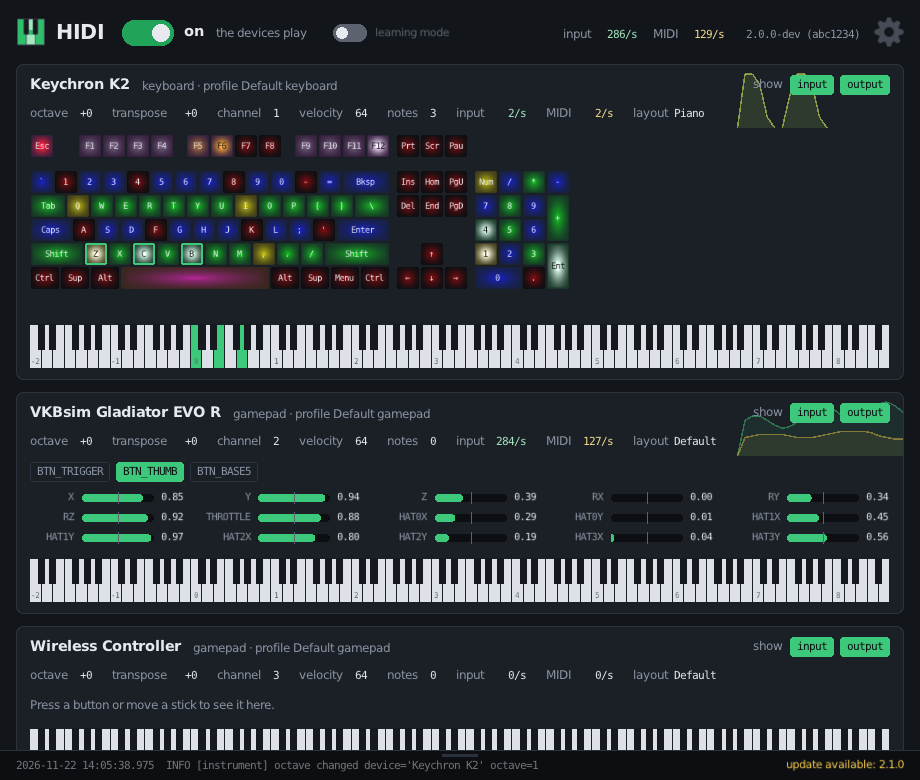
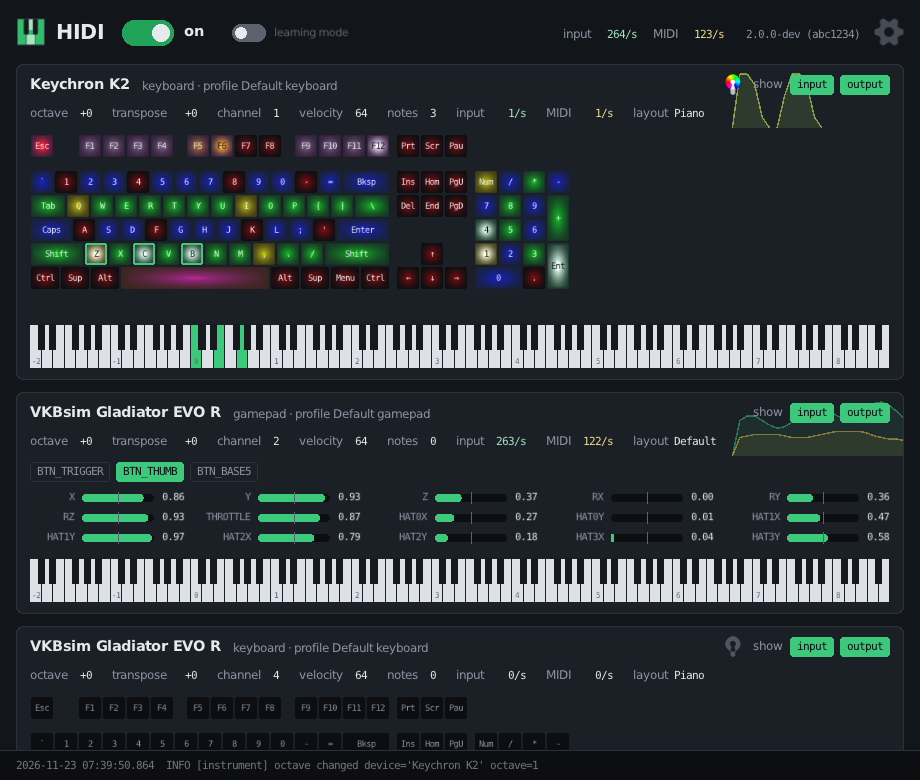
Docs: the seventh round
README: the sign of the lights on a keyboard's card and what a click on
it does; the row of levels below the status bar, and that what is played
is logged at debug level; the OpenRGB server field and the size of the
interface in the settings.

Configuration reference: window.scale, an empty lights.address, how the
shown lists name an entry, and what became of window.log_height.

Roadmap: a table of what was asked for in this round and what was done,
and two more things to try on Windows.

Claude-Session: https://claude.ai/code/session_01BSpi87DutHCzCjSX2Ru5Rd

diff --git a/docs/roadmap.md b/docs/roadmap.md
@@ -51,7 +51,7 @@ completes or changes an item.
 | OpenRGB | Supported through a server the user runs. HIDI does not bundle one. |
 | Go version | The current release; 1.27 at the time of writing. |
 
-## Where things stand (22 November 2026)
+## Where things stand (23 November 2026)
 
 `dev` holds everything up to the review of the whole code (pull requests
 50 and 51). One pull request is open on top of it:
@@ -109,6 +109,10 @@ To be tried on Windows, none of which has run there:
   that it stops moving the mouse.
 - The window at 120 Hz: is motion smooth now.
 - Learning mode, and the middle click on the icon.
+- The size of the interface on a display with scaling of its own, and
+  that the pointer and what it points at still agree.
+- Typing the OpenRGB address in the settings while the keyboard is not
+  HIDI's alone.
 
 To be tried with a keyboard OpenRGB lights, which was not at hand: that a
 released key goes dark at once, how fast the lights follow while playing,
@@ -383,12 +387,30 @@ of the reports and are not read on Windows.
 | The toggle key kept from the system (Caps Lock) | `input.toggle_exclusive`; a switch on the sheet. |
 | The hand cursor showed for one frame | The cursor is set once a frame. On Windows raylib gives the arrow back on every mouse move, so there the wish is repeated after every look at the pointer. Not seen on Windows yet. |
 | The icon | `internal/assets/icon` fills the shapes of the maintainer's drawing at any size. On: the H of the two outer keys and the bar green, the rest of the middle key a lighter green. Learning: yellow, alternating with green every half second. Off: grey without the letter. In the tray, in the header of the window, and in `hidi.exe` through go-winres at build time. |
-| A nicer gear | A disc, eight teeth with sloping sides, cut to a circle, a hole in the middle; drawn once as a picture and turned. |
+| A nicer gear | A disc, teeth with sloping sides (eight at first, six since the seventh round), cut to a circle, a hole in the middle; drawn once as a picture and turned. |
 | A check for updates | Opt-in (`window.check_updates`). The window asks GitHub's API for the newest release, once when it opens and once a day; the lower right corner says "up to date" in grey or "update available" in yellow, and a click opens the release. |
 | The Microsoft DLL in the zip | The release script takes it from Microsoft's package by address and checksum and puts it, the `.pri` and Microsoft's licence into the Windows archives. Address and checksum are still to be filled in. |
 | No console window | A release is linked with `-H windowsgui`; started from a command line HIDI joins that console; `--console` opens one. |
 
 Not done on purpose: the raylib change stays out of the release.
+
+### Seventh round (23 November 2026): what was asked for, and what was done
+
+| Asked for | Done |
+|---|---|
+| The icon of the program neutral | All white keys white; the green ones are for the tray and the header, which show a state. |
+| The OpenRGB logo as a vector drawing with a mesh gradient | `internal/assets/icon/openrgb.svg`: the wheel is one row of six patches around the middle, a corner each for red, yellow, green, cyan, blue and magenta; keyhole and base are plain shapes. Written by hand from measurements of the picture; **not opened in Inkscape**, which was not at hand, so the mesh is unverified. The window does not read the file: `icon.OpenRGB` draws the same shapes. |
+| The logo beside "show" on every keyboard | Colour where HIDI drives the lights, grey where not. A click on a grey one asks HIDI to show what the lights would show (`simulate` on the control socket, `Manager.SetSimulated`): the sign turns yellow and the drawn keyboard glows as a lit one does. It also brings the drawn keyboard into view. Lasts while HIDI runs. |
+| A gear of six teeth | Six. |
+| Size of the interface | `window.scale`, 85 to 200 % on the sheet. Everything is laid out as before and drawn through a lens; the fonts are made anew for the size, so text stays sharp. Where the header or a card is too narrow, the least needed is left out and names are cut. The window keeps its size. |
+| The OpenRGB address editable | A field on the sheet, empty by default with the usual address shown faintly, editable while the lights are off. An address needs a host and a port from 1 to 65535. |
+| No height of the log | The setting is gone; a file that has it is still read. The window opens with the log folded. |
+| Hover only while the pointer is over the window | `hovered` asks raylib first. |
+| No grip on the status bar; the bar always the same | The bar always shows the last line and the word on updates. Unfolded, the row of levels is below it, then the log. |
+| State changes logged as debug | Octave, transposition, channel, velocity, layout, chord, learning mode, and HIDI on and off. |
+| No "the devices play" | Gone; what follows "on"/"off" stands at a fixed place. |
+| "show" for one entry only | Remembered by name, kind and location. Lists of earlier builds, by name only, no longer match and are left alone. |
+
 
 ## Done
 

diff --git a/docs/configuration.md b/docs/configuration.md
@@ -53,7 +53,7 @@ the colours. A keyboard that should type again does so at once. `start_on`,
 mistake is reported and changes nothing.
 
 Everything here can also be changed in the window, on the sheet the gear
-opens, except the address of the OpenRGB server. The sheet writes the file
+opens. The sheet writes the file
 when you save there, not with every change.
 
 ```toml
@@ -98,7 +98,7 @@ pressed = "#ffffff"
 show_at_start = false
 fps = 0
 background_fps = 0
-log_height = 0
+scale = 100
 show_input = []
 show_output = []
 check_updates = false
@@ -118,14 +118,18 @@ check_updates = false
 | `devices.list` | Names of devices, as HIDI shows them. Two devices of one name are treated alike. | |
 | `output.connect` | Existing MIDI ports every instrument also sends to. | `--connect` |
 | `lights.openrgb` | Light the keys of keyboards through an OpenRGB server. | `--openrgb` |
-| `lights.address` | Where that server listens. | `--openrgb ADDRESS` |
+| `lights.address` | Where that server listens, as `"host:port"`. Empty, which is the default, means `127.0.0.1:6742`. | `--openrgb ADDRESS` |
 | `lights.colours` | The colours of the keys, each as `"#rrggbb"`. See below. | |
 | `window.show_at_start` | Open the window when HIDI starts; without it HIDI starts as an icon in the tray. | |
 | `window.check_updates` | Let the window ask GitHub, once when it opens and once a day after, whether a newer HIDI has been released. The answer is shown in the lower right corner; a click opens the release. Nothing is installed, and the request says nothing but the version of HIDI that asks. Off unless turned on. | |
 | `window.fps` | The most the window is drawn per second; 0 sets no limit, and the window keeps to the monitor's refresh rate. | `--fps` |
 | `window.background_fps` | The same limit for while another window has the focus; 0 sets none of its own. | `--background-fps` |
-| `window.log_height` | The height of the log when the window opens. | `--log-height` |
-| `window.show_input`, `window.show_output` | The instruments whose input and whose notes are drawn in the window, by the names of their devices. The window keeps these lists itself. | |
+| `window.scale` | The size of everything the window draws, in hundredths of its ordinary size, 50 to 300. | |
+| `window.show_input`, `window.show_output` | The instruments whose input and whose notes are drawn in the window, each as `"name \| kind \| where it is plugged in"`, so that two devices of one name are apart. The window keeps these lists itself. | |
+
+`window.log_height` was a setting of earlier HIDI 2 builds. A file that
+still has it is read without complaint, and the line is gone the next time
+HIDI writes the file: the window always opens with the log folded away.
 
 #### The colours of the lights
 

diff --git a/README.md b/README.md
@@ -183,6 +183,12 @@ glow in the colours of their lights, so the drawing shows what the keyboard
 shows. Every other device shows the buttons and axes it has reported so far.
 While HIDI is off, what is pressed shows in grey.
 
+Every keyboard has the sign of OpenRGB, a light bulb, beside "show". It is
+in colour where HIDI drives the keyboard's lights and grey where it does
+not: no OpenRGB, or a keyboard OpenRGB does not know. Click a grey one and
+the drawn keyboard shows what the lights would show; the sign is yellow
+meanwhile, and another click ends it. Nothing is sent to the keyboard.
+
 The small switch beside it is learning mode, for teaching a program which
 controller to listen to: every axis stands still until it is moved by more
 than a fifth of its range, so that the program hears only the one you mean.
@@ -194,8 +200,11 @@ switch too.
 The switch at the top turns HIDI on and off.
 
 The log lives in the bar at the bottom, which shows its last line, faint.
-Pull the bar up, or click it, for the whole log, and choose the least severe
-level to show.
+Pull the bar up, or click it, for the whole log; the row below the bar
+chooses the least severe level to show. What an instrument does as it is
+played, a changed octave or channel, a chord, and HIDI being turned on and
+off, is logged at the lowest level, DEBUG, and shows when that is chosen.
+The window always opens with the log folded away.
 
 ![The window with the log pulled up](docs/images/gui.png)
 
@@ -221,8 +230,14 @@ saving; the page says when something matters only at the next start.
   in grey, those HIDI has seen before.
 - "Also send to MIDI ports" lists the MIDI ports that exist. A click on one
   makes every instrument send there as well.
+- "OpenRGB server" is where the lights are sent: an address and a port.
+  Left empty it is the usual place, shown faintly. It can be changed while
+  the switch above it is off.
 - "Colours of the keys" are the colours of the lights. Click one and move
   the three sliders.
+- "Size of the interface" draws everything in the window smaller or larger,
+  from 85 % to 200 %. The window follows at once, and keeps the size when
+  you save.
 - "The toggle key is HIDI's alone" keeps a toggle of one key, such as Caps
   Lock, from the rest of the system altogether.
 - "Look for a newer HIDI" lets the window ask GitHub once a day whether
